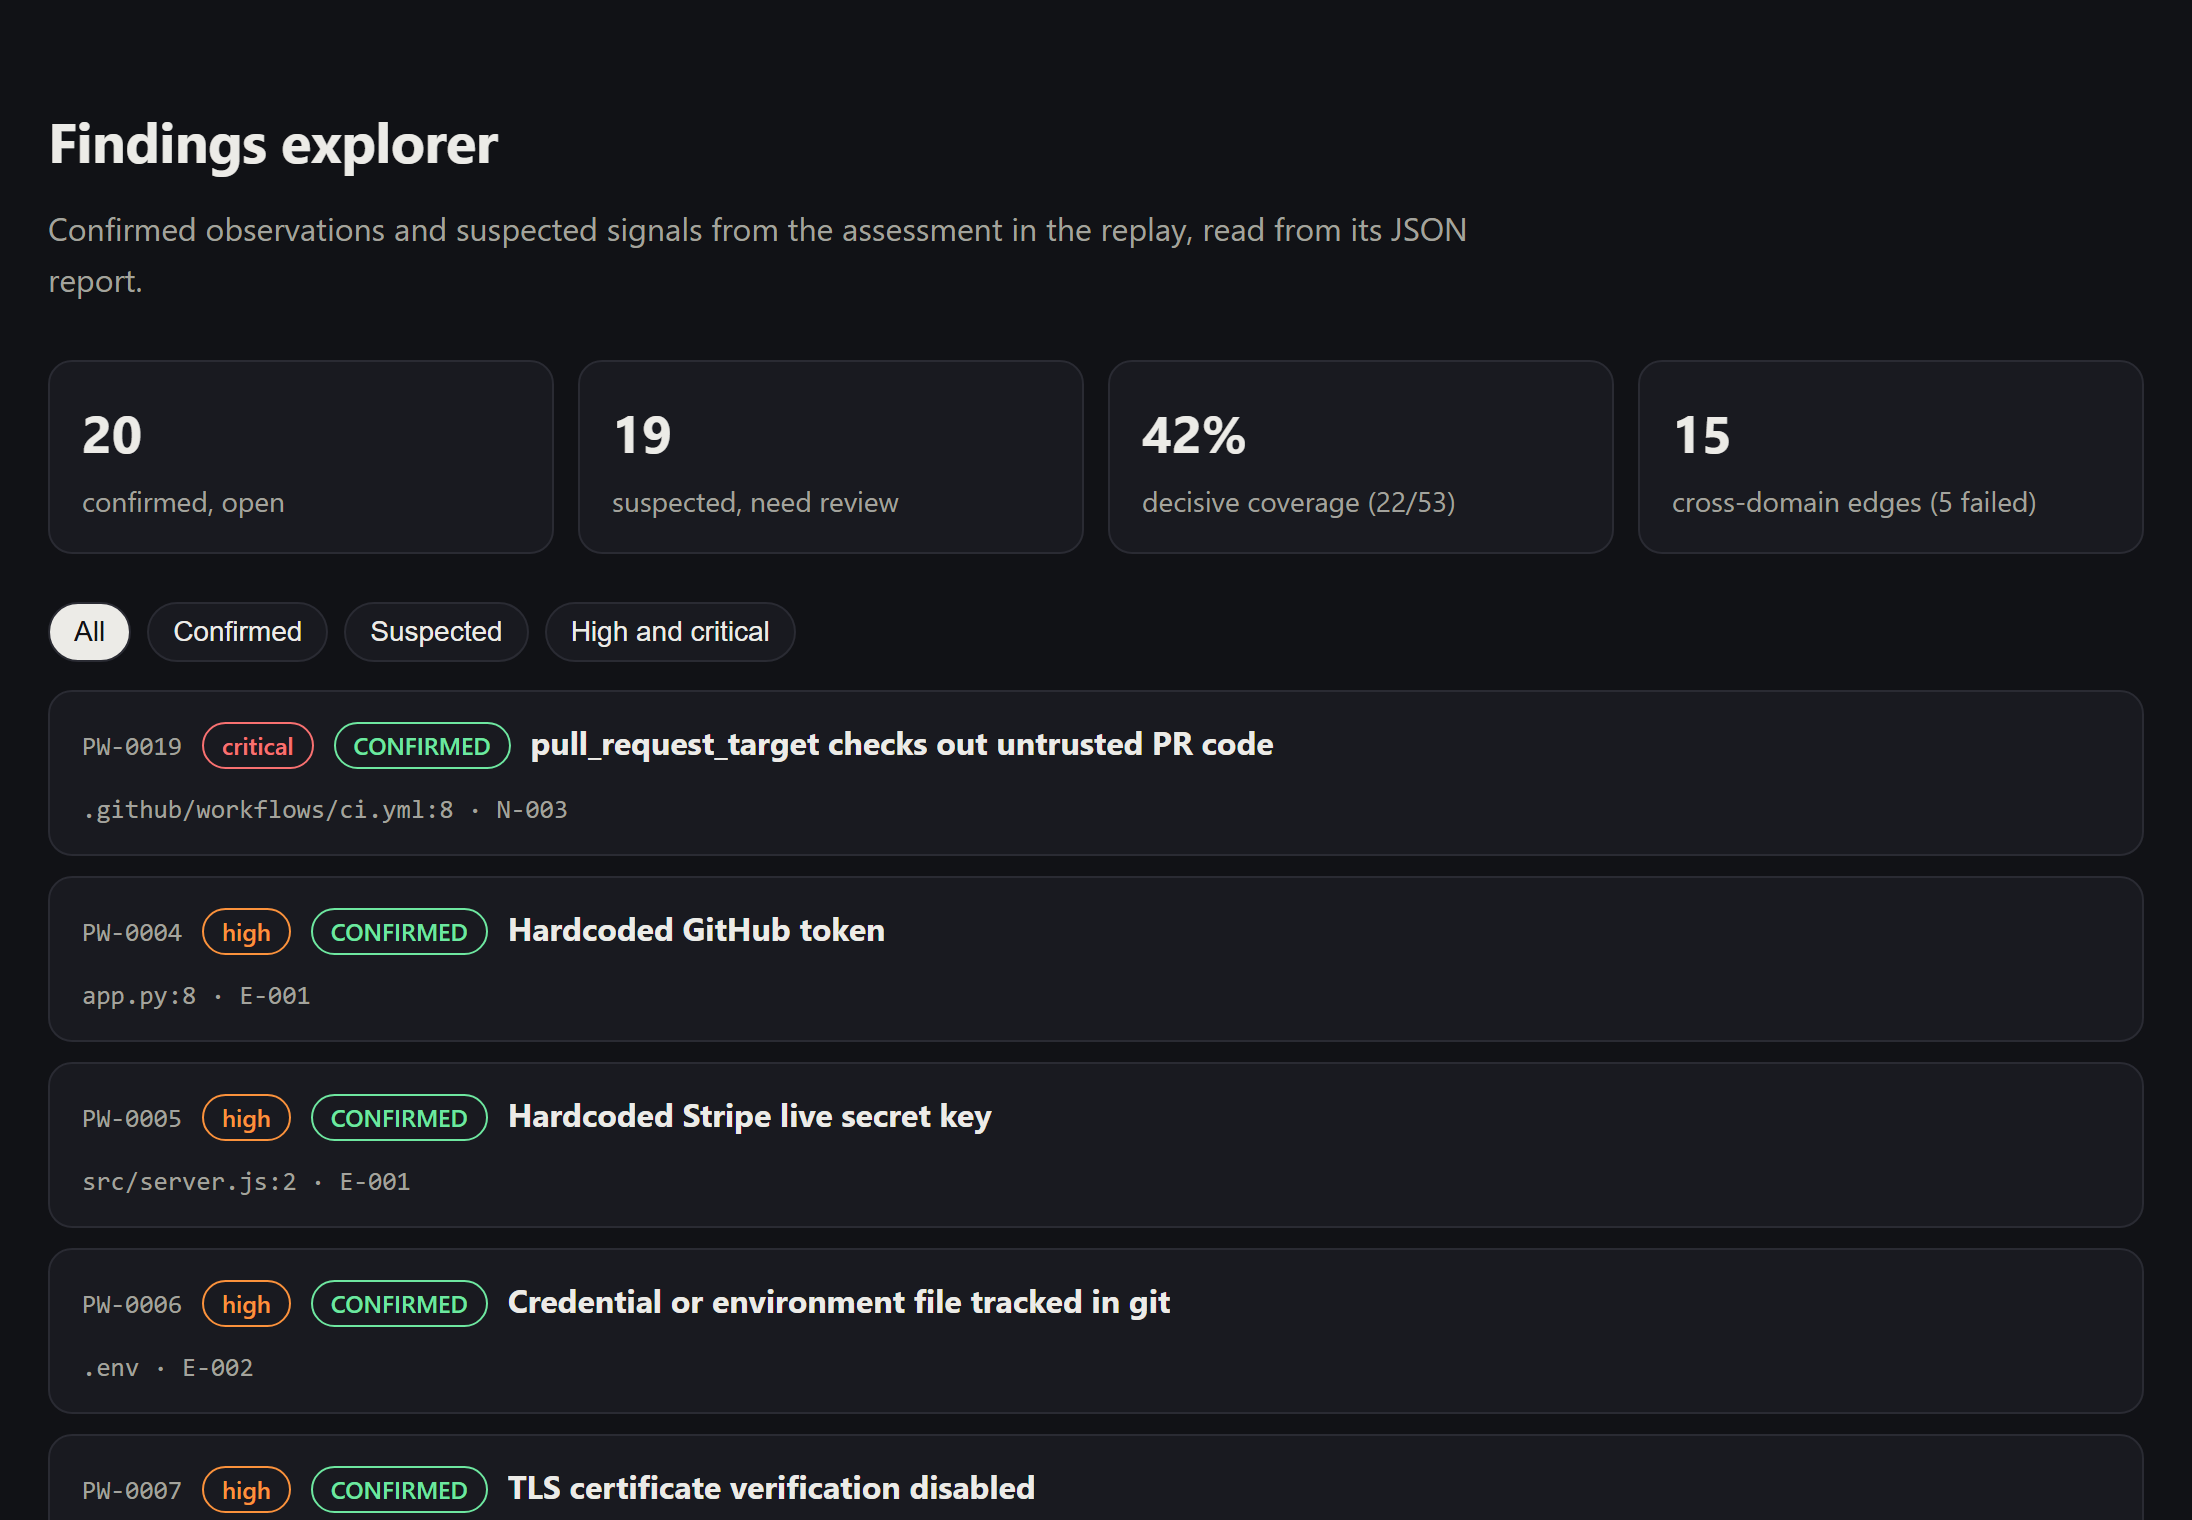
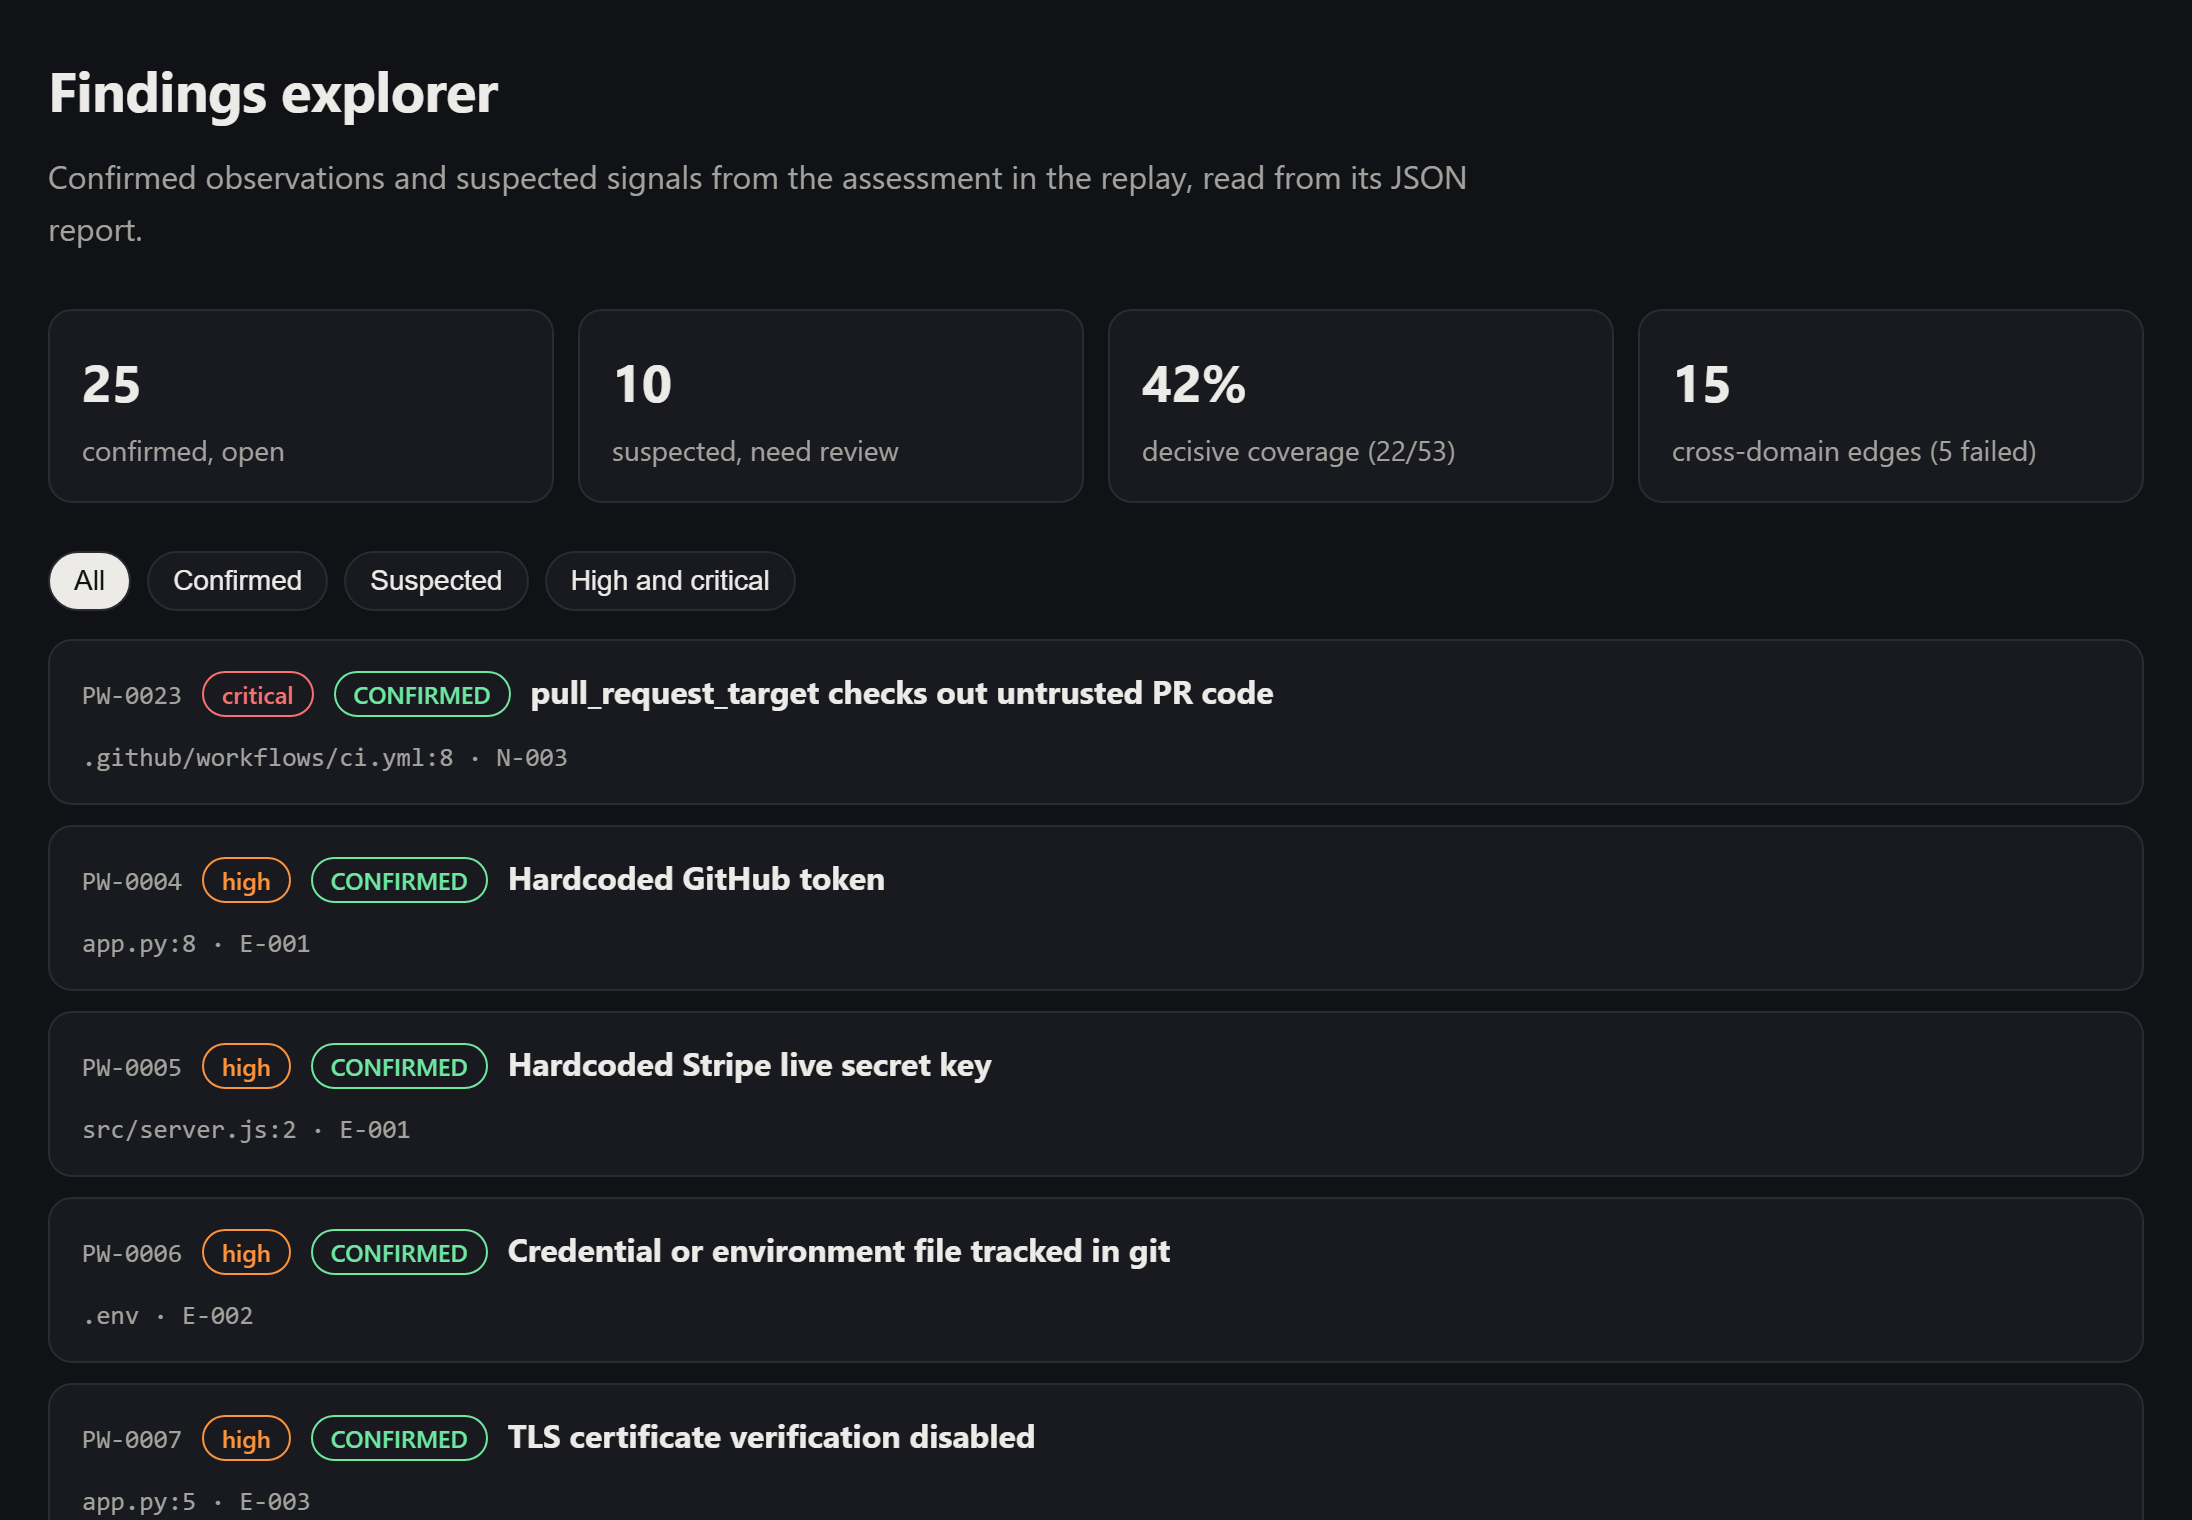
Refresh the README demo and screenshots for the taint engine (#410)
* Refresh the README demo and screenshots for the taint engine

The terminal demo now shows the builtin-taint adapter, generated by
tools/termdemo on current main without optional scanners on PATH, as the
site build runs. The findings explorer screenshots are taken from the live
demo page in both color schemes at the previous size: 23 confirmed and 9
suspected findings instead of 20 and 19. The alt texts carry the new
numbers.

Closes #409

* Refresh the README demo and screenshots for 0.2.16

diff --git a/README.md b/README.md
@@ -29,7 +29,7 @@
 Most scanners print a list of alerts and stop. PandaWard keeps a **ledger**: every control it could check, how it checked it, the redacted evidence, and every control it could *not* decide. Findings are fingerprinted across runs, so a fix becomes `REMEDIATED` only when the check runs again and no longer sees the problem, and a moved or renamed file keeps its findings, their IDs and your triage instead of reading as fixed.
 
 <p align="center">
-  <img src="docs/media/demo.svg" width="860" alt="Terminal session on the bundled demo project: pandaward init detects the stack, pandaward scan reports which adapters ran and which are BLOCKED, 40% decisive coverage and 33 open findings, then findings, the cross-domain graph and an ordered fix plan">
+  <img src="docs/media/demo.svg" width="860" alt="Terminal session on the bundled demo project: pandaward init detects the stack, pandaward scan reports which adapters ran, the built-in taint engine among them, and which are BLOCKED, 40% decisive coverage and 32 open findings, then findings, the cross-domain graph and an ordered fix plan">
   <br><sub>A real session on the bundled demo project, generated by <code>tools/termdemo</code>.</sub>
 </p>
 
@@ -37,7 +37,7 @@ Most scanners print a list of alerts and stop. PandaWard keeps a **ledger**: eve
   <a href="https://pandaward.dev/demo/">
     <picture>
       <source media="(prefers-color-scheme: dark)" srcset="docs/media/findings-dark.png">
-      <img src="docs/media/findings-light.png" width="860" alt="PandaWard findings explorer for the bundled acme-shop fixture: 20 confirmed findings, 19 suspected, 42% decisive coverage, with a critical pull_request_target finding and hardcoded secrets at the top">
+      <img src="docs/media/findings-light.png" width="860" alt="PandaWard findings explorer for the bundled acme-shop fixture: 25 confirmed findings, 10 suspected, 42% decisive coverage, with a critical pull_request_target finding and hardcoded secrets at the top">
     </picture>
   </a>
   <br><sub>Findings from a real scan of the bundled vulnerable fixture. <a href="https://pandaward.dev/demo/">Open the live demo</a> for the terminal replay and the full report.</sub>
